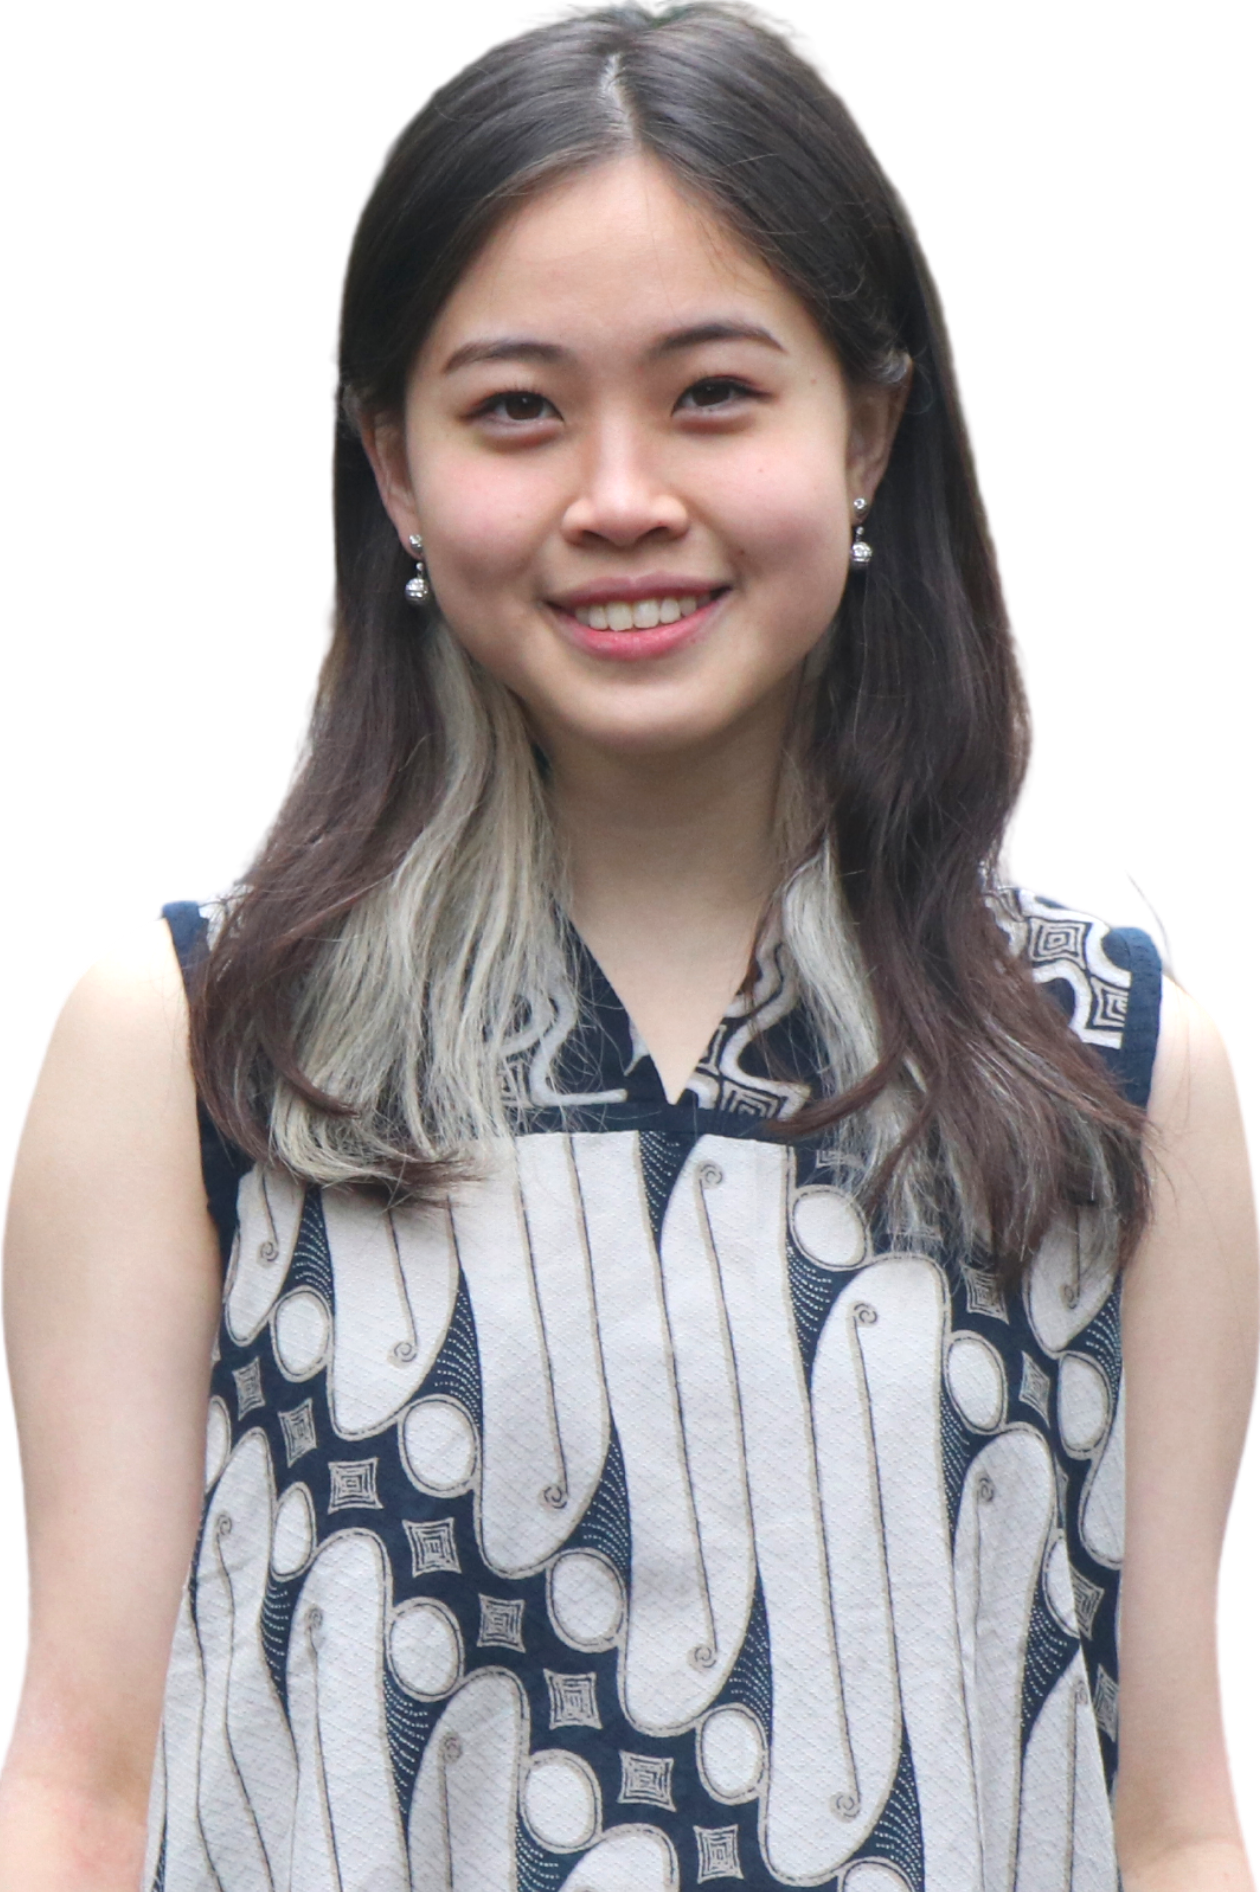
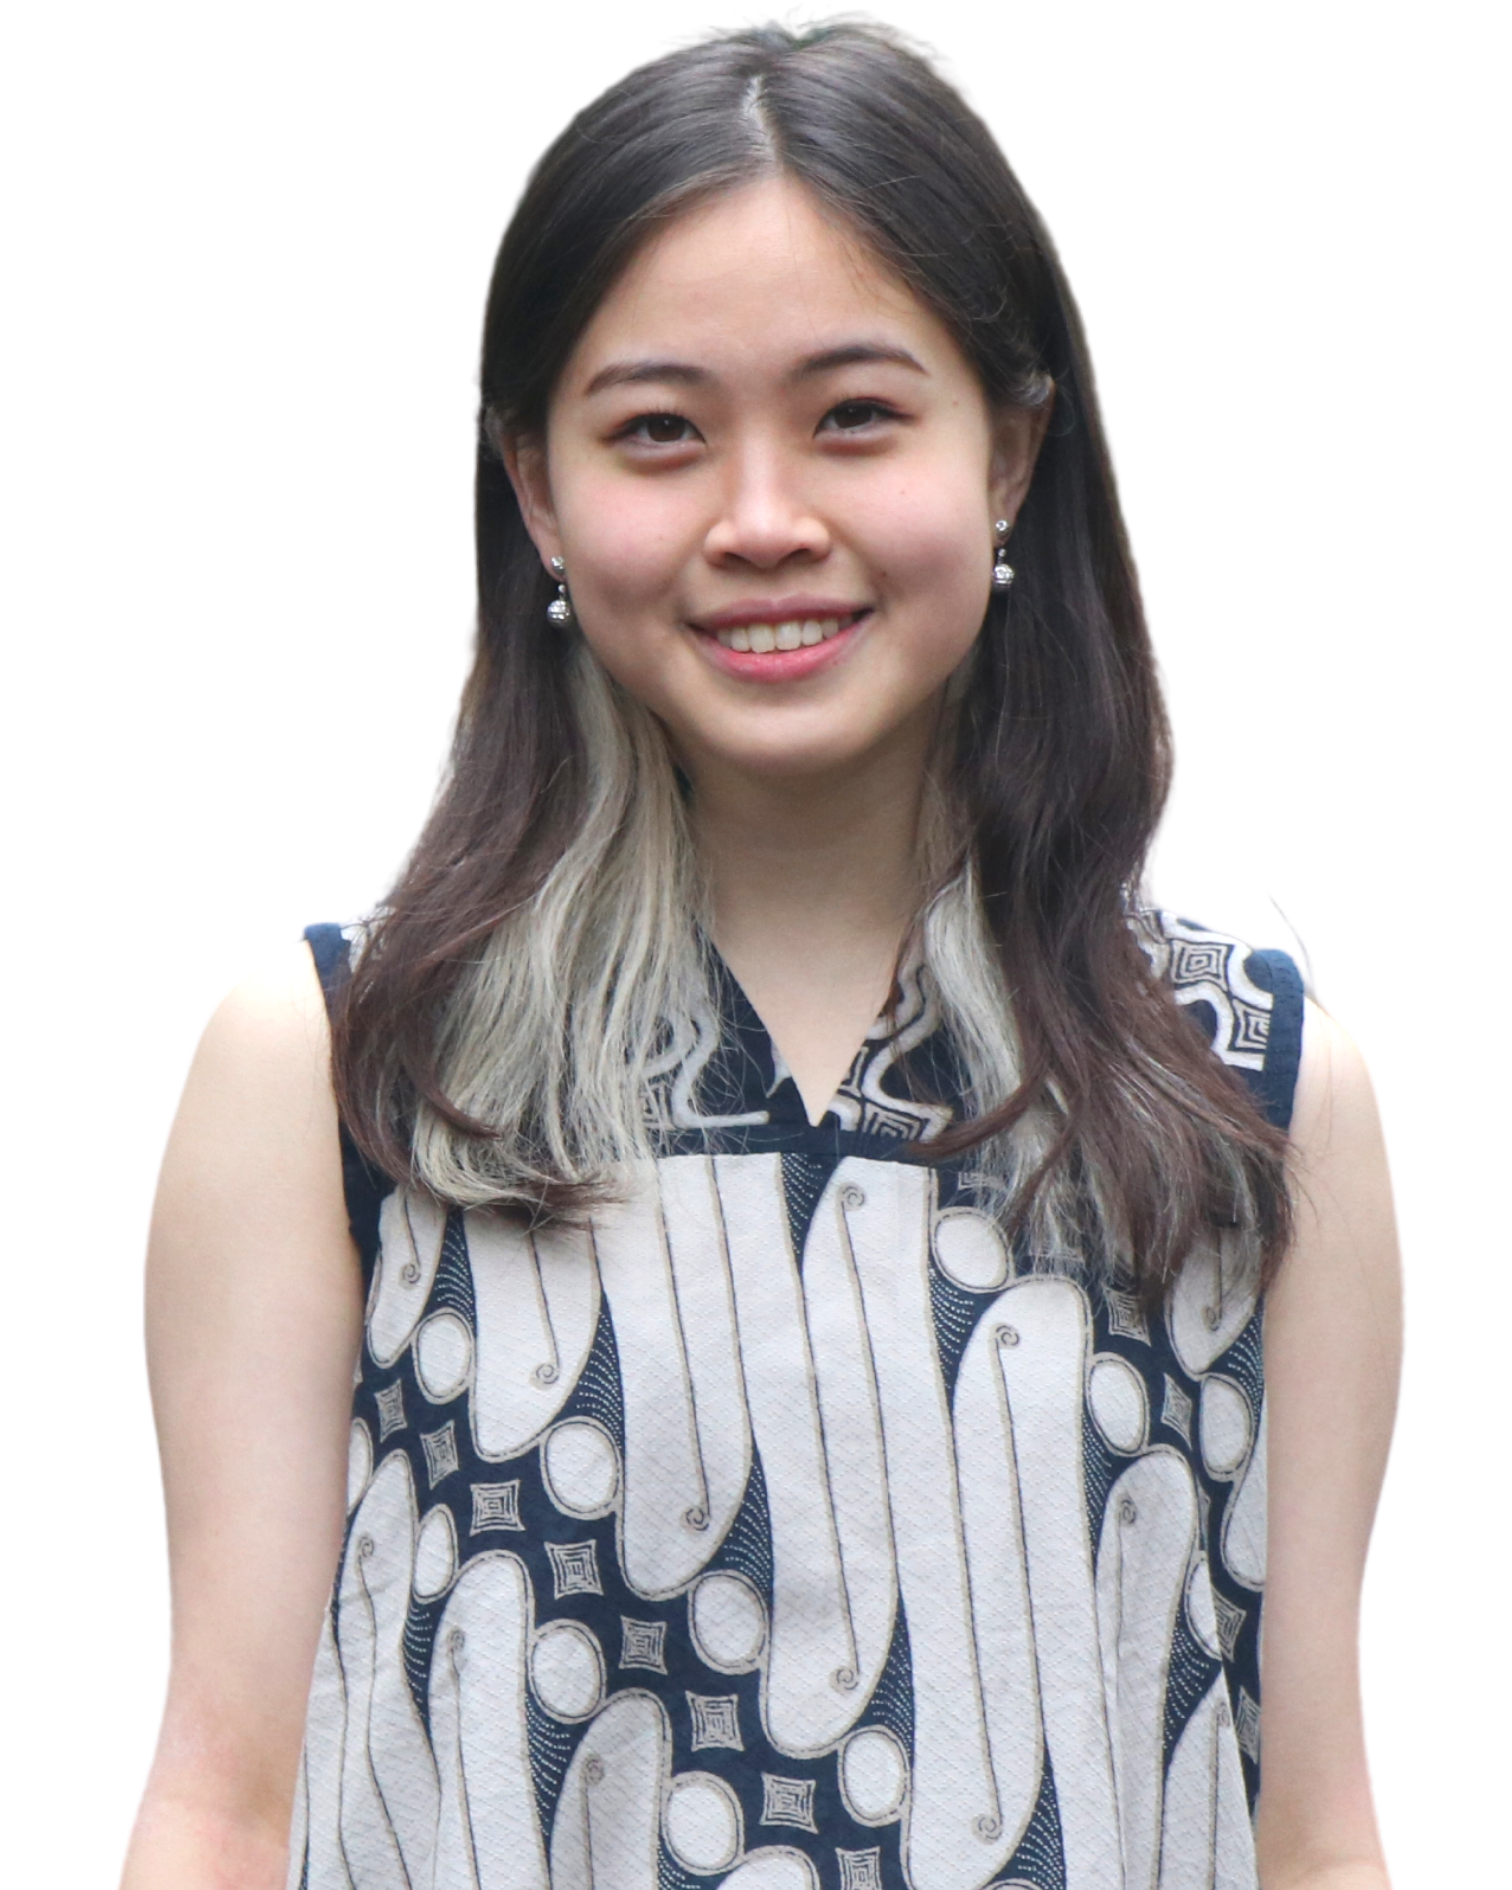
fix officers image size

diff --git a/src/components/Events.jsx b/src/components/Events.jsx
@@ -60,7 +60,7 @@ function Events() {
                     <div>
                         <h1 className="jumbotron-title display-4">ISAUW Card</h1>
                         <p className="jumbotron-desc">Discounts on your favorite restaurants for only $8!</p>
-                        <a className="jumbotron-btn btn btn-dark" href="#" role="button">Order now</a>
+                        <a className="jumbotron-btn btn btn-dark" href="https://docs.google.com/forms/u/0/" role="button">Order now</a>
                     </div>
                 </div>
             </Container>
